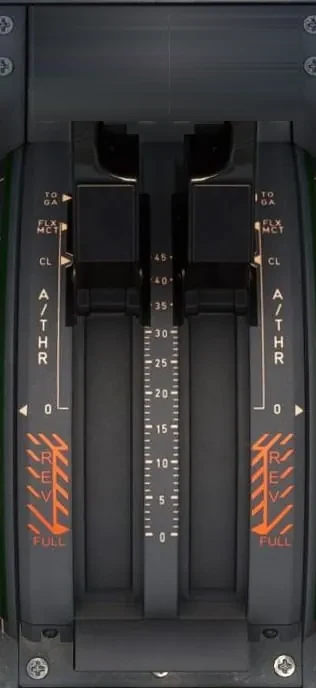
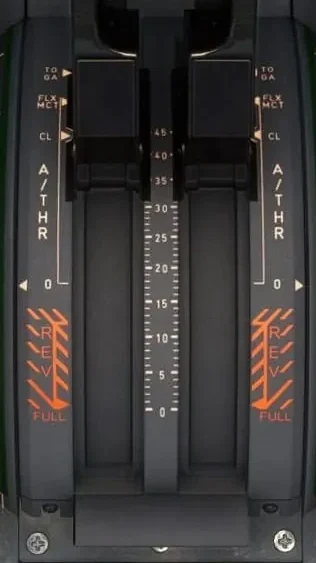
LEVERS: ENG MASTER panel under the thrust quadrant (top grey area cropped), larger gear panel, smaller flaps lever
Claude-Session: https://claude.ai/code/session_01HhPZEK7C6Wo3chgfNqRpSP

diff --git a/js/levers.js b/js/levers.js
@@ -5,10 +5,10 @@
    red UNLK in transit, AUTO BRK blue ON and green DECEL, BRK FAN ON) are drawn over the pushbuttons. Commands go to lever(). */
 const LVP={on:false};
 const IMG_LVG='img/lv-gear.webp',IMG_LVGL='img/lv-gear-lever.webp',IMG_LVT='img/lv-thr.webp',IMG_LVTL='img/lv-thr-l.webp',IMG_LVTR='img/lv-thr-r.webp',
-  IMG_LVF='img/lv-flaps.webp',IMG_LVFK='img/lv-flaps-knob.webp';
+  IMG_LVF='img/lv-flaps.webp',IMG_LVFK='img/lv-flaps-knob.webp',IMG_LVE='img/lv-eng.webp';
 /* thrust lever positions on the quadrant image (y of the scale marks: TOGA, FLX/MCT, CL, the white 0 line, the REV zone to FULL);
    the centre of the handles is put on the mark */
-const THR_POS=[['TOGA','TOGA',198],['FLX','FLX/MCT',226],['CL','CL',260],['N50','50% N1',334],['IDLE','IDLE',408],['REVIDLE','IDLE REV',452],['REVMAX','MAX REV',500]];
+const THR_POS=[['TOGA','TOGA',73],['FLX','FLX/MCT',101],['CL','CL',135],['N50','50% N1',209],['IDLE','IDLE',283],['REVIDLE','IDLE REV',327],['REVMAX','MAX REV',375]];   /* quadrant image cropped 125 px at the top */
 const FLP_Y=[60,120,180,240,290];
 /* layout: thrust quadrant on the left over the full height, its buttons beside it; landing gear panel (smaller) top right,
    flaps lever (knob and gate only) below it */
@@ -17,13 +17,14 @@ function leversSvg(){const G='#3cff3c',B='#3ad7ff',R='#ff3b30',ln='#e8eef5';
   const btn=(x,y,w,h,k,v,lbl,on,c,sz)=>`<g class="lvk" data-lv="${k}" data-v="${v}" style="cursor:pointer"><rect x="${x}" y="${y}" width="${w}" height="${h}" rx="6" fill="#15191e" stroke="${on?G:'#7d8a99'}" stroke-width="${on?2.5:1.5}"/>${t(x+w/2,y+h/2+5,lbl,sz||13,on?G:(c||ln))}</g>`;
   const hit=(x,y,w,h,k,v)=>`<rect class="lvk" data-lv="${k}" data-v="${v}" x="${x}" y="${y}" width="${w}" height="${h}" fill="transparent" style="cursor:pointer"/>`;
   let s=`<rect x="0" y="0" width="600" height="530" fill="#2a313c"/>`;
-  /* ---- thrust levers: quadrant image 316 x 688 (gate and scales), the two handles slide from TOGA down to MAX REV ---- */
-  {const k=530/688;s+=`<g transform="scale(${k})"><image href="${IMG_LVT}" x="0" y="0" width="316" height="688"/>`;
+  /* ---- left: thrust quadrant (image 316 x 563) with its buttons, ENG MASTER panel (image 563 x 392) under it ---- */
+  {const k=335/563;s+=`<g transform="scale(${k})"><image href="${IMG_LVT}" x="0" y="0" width="316" height="563"/>`;
     const y=THR_POS.find(p=>p[0]===LV.thr)[2]-58;   /* handle images 117 high: centre on the mark */
     s+=`<image href="${IMG_LVTL}" x="34" y="${y}" width="128" height="117"/><image href="${IMG_LVTR}" x="170" y="${y}" width="128" height="117"/></g>`}
-  THR_POS.forEach(([k,l],i)=>{s+=btn(250,8+i*74.5,86,62,'thr',k,l.replace('/',' /'),LV.thr===k,k.startsWith('REV')?'#ff9a55':null,12)});
-  /* ---- landing gear panel (image 676 x 333), smaller, top right ---- */
-  {const x0=342,k=252/676;s+=`<g transform="translate(${x0},8) scale(${k})"><image href="${IMG_LVG}" x="0" y="0" width="676" height="333"/>`;
+  THR_POS.forEach(([k,l],i)=>{s+=btn(192,2+i*47.5,84,42,'thr',k,l.replace('FLX/MCT','FLX MCT'),LV.thr===k,k.startsWith('REV')?'#ff9a55':null,12)});
+  s+=`<image href="${IMG_LVE}" x="0" y="339" width="276" height="192"/>`;
+  /* ---- right top: landing gear panel (image 676 x 333) ---- */
+  {const x0=282,k=318/676;s+=`<g transform="translate(${x0},2) scale(${k})"><image href="${IMG_LVG}" x="0" y="0" width="676" height="333"/>`;
     const gp=flying()?(FL.gearPos??1):1,dn=gp>=1,tr=gp>0&&gp<1;
     [56,140,224].forEach(x=>{if(!dn)s+=`<rect x="${x+8}" y="106" width="64" height="44" fill="#222428"/>`;if(tr)s+=t(x+40,104,'UNLK',17,R)});
     if(LV.fan)s+=t(396,136,'ON',12,B);
@@ -34,14 +35,14 @@ function leversSvg(){const G='#3cff3c',B='#3ad7ff',R='#ff3b30',ln='#e8eef5';
     s+=hit(350,216,70,92,'askid','x');
     const up=LV.gear==='UP';s+=`<image href="${IMG_LVGL}" x="524" y="${up?17:92}" width="48" height="230"/>`+hit(490,0,186,333,'gear',up?'DOWN':'UP');
     s+=`</g>`;
-    s+=btn(342,138,124,34,'gear','UP','GEAR UP',up)+btn(470,138,124,34,'gear','DOWN','GEAR DOWN',!up);
-    s+=t(468,190,dn?'DOWN LOCKED':gp<=0?'UP LOCKED':'IN TRANSIT',12,dn?G:gp<=0?ln:R)}
-  /* ---- flaps lever: knob and gate only (image 240 x 302), knob on the gate positions ---- */
-  {const k=290/302,x0=350;s+=`<g transform="translate(${x0},200) scale(${k})"><image href="${IMG_LVF}" x="0" y="0" width="240" height="302"/>`;
+    s+=btn(282,162,156,34,'gear','UP','GEAR UP',up)+btn(444,162,156,34,'gear','DOWN','GEAR DOWN',!up);
+    s+=t(441,216,dn?'DOWN LOCKED':gp<=0?'UP LOCKED':'IN TRANSIT',12,dn?G:gp<=0?ln:R)}
+  /* ---- right bottom: flaps lever, knob and gate only (image 240 x 302), smaller ---- */
+  {const k=246/302,x0=300;s+=`<g transform="translate(${x0},230) scale(${k})"><image href="${IMG_LVF}" x="0" y="0" width="240" height="302"/>`;
     const y=FLP_Y[LV.flaps]-20;s+=`<image href="${IMG_LVFK}" x="${128-70}" y="${y-53}" width="140" height="107"/>`;
     FLP_Y.forEach((yy,i)=>{s+=hit(0,yy-20-28,240,56,'flaps',i)});s+=`</g>`;
-    const cf=flying()?FL.conf:['0','1+F','2','3','FULL'][LV.flaps];s+=t(590,222,'FLAPS',13,ln,'end')+t(590,242,cf==='0'?'CLEAN':cf,13,'#ffd9a0','end')}
-  ['0','1','2','3','FULL'].forEach((l,i)=>{s+=btn(342+i*51,496,47,30,'flaps',i,l,LV.flaps===i,null,12)});
+    const cf=flying()?FL.conf:['0','1+F','2','3','FULL'][LV.flaps];s+=t(596,258,'FLAPS',14,ln,'end')+t(596,280,cf==='0'?'CLEAN':cf,14,'#ffd9a0','end')}
+  ['0','1','2','3','FULL'].forEach((l,i)=>{s+=btn(520,300+i*45,76,38,'flaps',i,l,LV.flaps===i,null,13)});
   return s}
 function drawLevers(){const o=$('#lvPanel');if(!o)return;o.hidden=!LVP.on;const b=$('#lvBtn');if(b){b.setAttribute('aria-pressed',String(LVP.on));b.textContent=LVP.on?'SD':'LEVERS'}
   if(!LVP.on)return;const h=leversSvg();if(o._h!==h){o.innerHTML=`<svg viewBox="0 0 600 530" preserveAspectRatio="xMidYMid meet" xmlns="http://www.w3.org/2000/svg" aria-label="Levers">${h}</svg>`;o._h=h}}

diff --git a/index.html b/index.html
@@ -145,7 +145,7 @@
 <script src="js/setup.js?v=bcc55ea4"></script>
 <script src="js/pfd.js?v=6f6c1c15"></script>
 <script src="js/ecam.js?v=1845e501"></script>
-<script src="js/levers.js?v=9c218ab1"></script>
+<script src="js/levers.js?v=71eb28f0"></script>
 <script src="js/sdpages.js?v=fe8668eb"></script>
 <script src="js/cockpit3d.js?v=1ee46420"></script>
 <script src="js/app.js?v=9ebd617e"></script>
